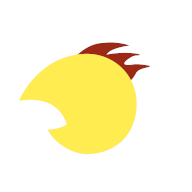
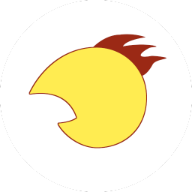
added tests

Changed region(s): [[0.0938, 0.1562, 0.875, 0.8125]]

diff --git a/ChickenTinder/ChickenTinder/Client/wwwroot/index.html b/ChickenTinder/ChickenTinder/Client/wwwroot/index.html
@@ -35,12 +35,14 @@
     <meta name="viewport" content="width=device-width, initial-scale=1.0, maximum-scale=1.0, user-scalable=no" />
     <title>ChickenTinder</title>
     <base href="/" />
+    <link rel="shortcut icon" href="/favicon-1.ico" type="image/x-icon">
+    <link rel="icon" href="/favicon-1.ico" type="image/x-icon">
     <link href="css/bootstrap/bootstrap.min.css" rel="stylesheet" />
     <link href="css/app.css" rel="stylesheet" />
     <link href="ChickenTinder.Client.styles.css" rel="stylesheet" />
     <link href="manifest.json" rel="manifest" />
-    <link rel="apple-touch-icon" sizes="512x512" href="icon-512.png" />
-    <link rel="apple-touch-icon" sizes="192x192" href="icon-192.png" />
+    <link rel="apple-touch-icon" sizes="512x512" href="icon-512-full.png" />
+    <link rel="apple-touch-icon" sizes="192x192" href="icon-192-full.png" />
     <script src="https://kit.fontawesome.com/143b14194d.js" crossorigin="anonymous"></script>
 </head>
 

diff --git a/ChickenTinder/ChickenTinder/Tests/MatchServiceTests.cs b/ChickenTinder/ChickenTinder/Tests/MatchServiceTests.cs
@@ -1,0 +1,84 @@
+
+namespace Tests
+{
+    public class MatchServiceTests
+    {
+        public MatchService MatchService { get; set; } = new MatchService();
+
+        [Fact]
+        public void MatchSingleUserLike_Should_BeTrue()
+        {
+            var fixture = new Fixture();
+            var restaurants = fixture.CreateMany<Restaurant>(3);
+            var host = new User();
+            var room = new DiningRoom(host, restaurants.ToList());
+            var match = new Match(host, restaurants.First(), UserAction.Like);
+            MatchService.CheckForMatch(room, match).Should().BeTrue();
+        }
+
+        [Fact]
+        public void MatchSinglePickyUser_Should_BeTrue()
+        {
+
+            var fixture = new Fixture();
+            var restaurants = fixture.CreateMany<Restaurant>(3);
+            var host = new User();
+            var room = new DiningRoom(host, restaurants.ToList());
+            var match = new Match(host, restaurants.First(), UserAction.No);
+            room.SetPickyUser(host.Id);
+
+            MatchService.CheckForMatch(room, match).Should().BeTrue();
+        }
+
+        [Theory]
+        [InlineData(1, UserAction.Like, false, 1, UserAction.Love, false, true, 1)]
+        [InlineData(1, UserAction.Like, false, 1, UserAction.Maybe, false, false, null)]
+        [InlineData(1, UserAction.Like, false, 1, UserAction.No, false, false, null)]
+        [InlineData(1, UserAction.Like, false, 2, UserAction.Like, false, false, null)]
+        [InlineData(1, UserAction.Like, true, 2, UserAction.Like, true, true, 1)]
+        [InlineData(1, UserAction.Like, true, 2, UserAction.Love, true, true, 2)]
+        public void MatchExamples(
+            int? restId1, 
+            UserAction action1, 
+            bool isPicky1, 
+            int? restId2, 
+            UserAction action2, 
+            bool isPicky2, 
+            bool result,
+            int? winningRestaurant)
+        {
+            var fixture = new Fixture();
+            var restaurants = fixture.Build<Restaurant>().Without(p => p.Distance).CreateMany<Restaurant>(3).ToList();
+            var host = new User();
+            var room = new DiningRoom(host, restaurants);
+            if (restId1 != null)
+            {
+                var match = new Match(host, restaurants[restId1.Value], action1);
+                room.Matches.Add(match);
+                if (isPicky1)
+                {
+                    room.SetPickyUser(host.Id);
+                }
+            }
+            var user1 = new User();
+            room.Join(user1);
+            if (restId2 != null)
+            {
+                var match = new Match(user1, restaurants[restId2.Value], action2);
+                room.Matches.Add(match);
+                if (isPicky2)
+                    room.SetPickyUser(user1.Id);
+            }
+
+            MatchService.CheckForMatch(room, room.Matches.LastOrDefault()).Should().Be(result);
+            if (winningRestaurant != null)
+            {
+                room.WinningRestaurant.Should().Be(restaurants[winningRestaurant.Value]);
+            }
+            else
+            {
+                room.WinningRestaurant.Should().BeNull();
+            }
+        }
+    }
+}

diff --git a/ChickenTinder/ChickenTinder/Server/Services/MatchService.cs b/ChickenTinder/ChickenTinder/Server/Services/MatchService.cs
@@ -12,14 +12,14 @@ public class MatchService
 
         userMaxSwipeCount = room.Users.Where(u => u.MaxSwipesReached).Count();
         
-        if (room.Matches.Where(m => m.Restaurant.ID == match.Restaurant.ID && m.User.Name == match.User.Name).Count() == 0)
+        if (!room.Matches.Where(m => m.Restaurant.ID == match.Restaurant.ID && m.User.Id == match.User.Id).Any())
         {
             room.Matches.Add(match);
         }            
             
         userMatches = room.Matches
             .Where(m => m.Restaurant?.ID == match.Restaurant.ID && (int)m.Action > 1)
-            .Select(m => new { m.Restaurant.ID, m.User.Name})
+            .Select(m => new { m.Restaurant.ID, m.User.Id})
             .Distinct().Count();
 
         if (userMaxSwipeCount >= room.Users.Count)

diff --git a/ChickenTinder/ChickenTinder/Server/Services/RoomService.cs b/ChickenTinder/ChickenTinder/Server/Services/RoomService.cs
@@ -68,7 +68,7 @@ public class RoomService
             return null;
         }
         var data = await userService.GetRandomUser(users);
-
+        
         user.Name = data.Name;
         user.Class = data.Class;
         user.Color = data.Color;
@@ -82,6 +82,9 @@ public class RoomService
             var result = await UpdateUser(user, room, room.Users.Select(p => p.Name).ToList());
             if (result != null)
             {
+                var timer = new UserTimer(result);
+                timer.OnExpired = u => RemoveExpiredUsers(u, room, timer);
+                Timers.Add(timer);
                 room.Join(result);
             }
             return room;

diff --git a/ChickenTinder/ChickenTinder/Shared/Models/UserTimer.cs b/ChickenTinder/ChickenTinder/Shared/Models/UserTimer.cs
@@ -9,7 +9,7 @@
             User = user;
         }
         public User User { get; set; }
-        private System.Timers.Timer Timer = new System.Timers.Timer(30000);
+        private readonly System.Timers.Timer Timer = new System.Timers.Timer(TimeSpan.FromMinutes(5).TotalMilliseconds);
 
         private void Timer_Elapsed(object? sender, System.Timers.ElapsedEventArgs e)
         {

diff --git a/ChickenTinder/ChickenTinder/Tests/Usings.cs b/ChickenTinder/ChickenTinder/Tests/Usings.cs
@@ -1,0 +1,8 @@
+global using Xunit;
+global using AutoFixture;
+global using AutoFixture.AutoNSubstitute;
+global using ChickenTinder;
+global using ChickenTinder.Client;
+global using ChickenTinder.Server.Services;
+global using ChickenTinder.Shared.Models;
+global using FluentAssertions;

diff --git a/ChickenTinder/ChickenTinder/Tests/UnitTest1.cs b/ChickenTinder/ChickenTinder/Tests/UnitTest1.cs
@@ -1,0 +1,12 @@
+
+namespace Tests
+{
+    public class UnitTest1
+    {
+        [Fact]
+        public void Test1()
+        {
+
+        }
+    }
+}
